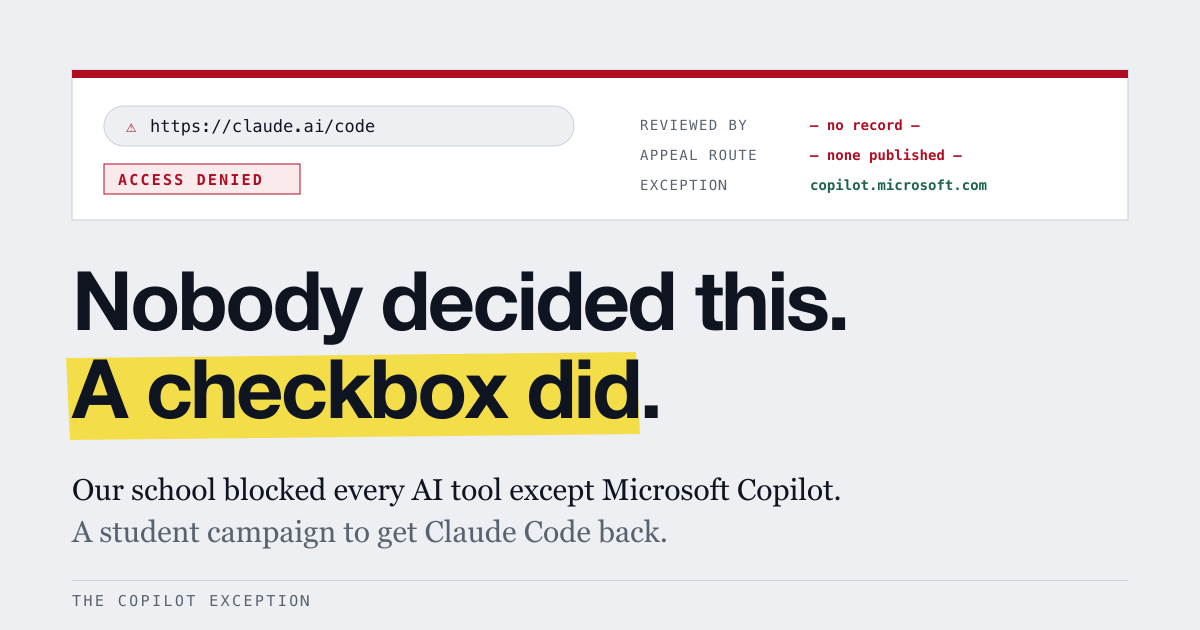
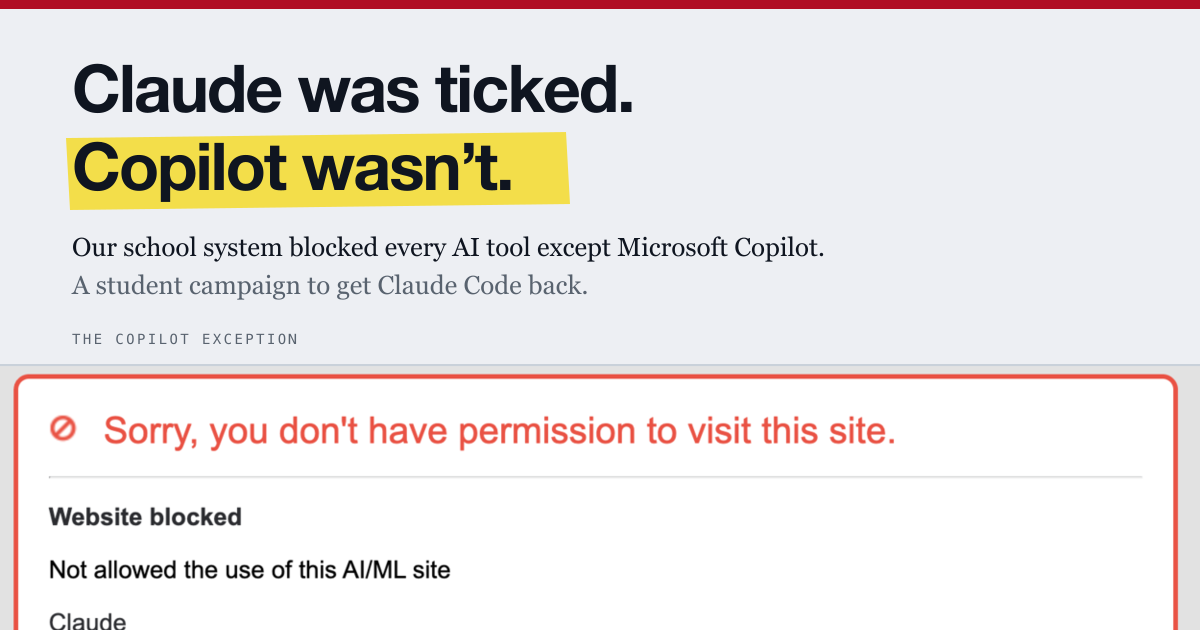
Lead with the real block page, and correct the claims it disproves
The screenshot of the Zscaler block shows this is a per-application AI/ML
rule naming Claude, set at Catholic Schools Broken Bay level — not a bulk
category default at one school. Three corrections follow from that:

- the block page links to an internet use policy, so the site no longer
  claims none is published; demand 3 now asks what it says about AI, who
  owns it, and how to appeal
- section 01 argues from per-application blocking rather than a category tick
- escalation ladder rebuilt for a school system, in Australian terms

Also: hero mock-up replaced by the evidence with a provenance caption,
commentary visually separated so it can't be mistaken for the block page,
OG image rebuilt around the screenshot, originals kept out of the repo.

diff --git a/index.html b/index.html
@@ -4,7 +4,7 @@
 <meta charset="utf-8">
 <meta name="viewport" content="width=device-width, initial-scale=1">
 <title>The Copilot Exception</title>
-<meta name="description" content="Our school blocked every AI tool except Microsoft Copilot. Not after a risk assessment — after someone ticked a filter category. A student campaign to unblock Claude Code and get the decision made properly, in writing, by a person.">
+<meta name="description" content="Catholic Schools Broken Bay blocks Claude and its documentation as an “AI/ML site” while permitting Microsoft Copilot. A student campaign to get the decision reviewed, in writing, by a person.">
 <meta name="author" content="Students of the campaign">
 <meta name="robots" content="index, follow">
 <link rel="canonical" href="https://schappiplays.github.io/protest/">
@@ -12,16 +12,16 @@
 <!-- social preview -->
 <meta property="og:type" content="website">
 <meta property="og:site_name" content="The Copilot Exception">
-<meta property="og:title" content="Copilot isn’t allowed because it’s safe. It’s allowed because it’s Microsoft.">
-<meta property="og:description" content="A student campaign to unblock Claude Code, end the single-vendor AI exception, and make the school publish an actual policy.">
+<meta property="og:title" content="Claude was ticked. Copilot wasn’t.">
+<meta property="og:description" content="Our school system blocked Claude — including its documentation — while permitting Microsoft Copilot. A student campaign to get it back.">
 <meta property="og:url" content="https://schappiplays.github.io/protest/">
 <meta property="og:image" content="https://schappiplays.github.io/protest/assets/og.png">
 <meta property="og:image:width" content="1200">
 <meta property="og:image:height" content="630">
-<meta property="og:image:alt" content="An access-denied block notice, overwritten with the words: nobody decided this, a checkbox did.">
+<meta property="og:image:alt" content="A Zscaler block page reading “Not allowed the use of this AI/ML site — Claude”, headed Catholic Schools Broken Bay.">
 <meta name="twitter:card" content="summary_large_image">
-<meta name="twitter:title" content="Copilot isn’t allowed because it’s safe. It’s allowed because it’s Microsoft.">
-<meta name="twitter:description" content="A student campaign to unblock Claude Code, end the single-vendor AI exception, and make the school publish an actual policy.">
+<meta name="twitter:title" content="Claude was ticked. Copilot wasn’t.">
+<meta name="twitter:description" content="Our school system blocked Claude — including its documentation — while permitting Microsoft Copilot. A student campaign to get it back.">
 <meta name="twitter:image" content="https://schappiplays.github.io/protest/assets/og.png">
 
 <meta name="theme-color" content="#EDEFF3" media="(prefers-color-scheme: light)">
@@ -44,39 +44,44 @@
 
   <!-- ============ HERO ============ -->
   <section style="padding-top:22px">
-    <div class="notice reveal">
-      <div class="notice-hd">
-        <div class="urlbar"><span class="lock" aria-hidden="true">&#9888;</span><span class="u">https://claude.ai/code</span></div>
-        <span class="denied-tag">&#10006;&nbsp; Access Denied</span>
-      </div>
-      <div class="notice-body">
-        <p class="headline">This page has been blocked by your network administrator.</p>
-        <p class="boiler">The site you are trying to reach falls into a category that is not permitted on the
-          <span class="blank" data-school>school name</span> student network. If you believe this is an error, contact
-          your IT department.</p>
-        <dl class="fields">
-          <dt>Category</dt><dd><span class="bad">Artificial Intelligence / Machine Learning &mdash; BLOCKED</span></dd>
-          <dt>Policy</dt><dd>STUDENT-DEFAULT (inherited)</dd>
-          <dt>Reviewed by</dt><dd><span class="bad">&mdash; no record &mdash;</span></dd>
-          <dt>Appeal route</dt><dd><span class="bad">&mdash; none published &mdash;</span></dd>
-          <dt>Exception</dt><dd><span class="ok">copilot.microsoft.com &mdash; ALLOWED</span></dd>
-        </dl>
-      </div>
-    </div>
+    <figure class="evidence reveal">
+      <img src="assets/blocked.png" width="1520" height="720" decoding="async"
+           alt="A Zscaler block page reading: Sorry, you don't have permission to visit this site. Website blocked. Not allowed the use of this AI/ML site. Claude. Headed Catholic Schools Broken Bay.">
+      <figcaption>
+        <span class="ev-lbl">Evidence &middot; 20 August 2026</span>
+        <span>Requesting <code>code.claude.com/docs/en/overview</code> &mdash; the Claude&nbsp;Code
+          <em>documentation</em> &mdash; on the school network. Cropped to remove browser tabs and bookmarks;
+          the support contact is redacted. Nothing else is altered.</span>
+      </figcaption>
+    </figure>
 
     <div style="margin:30px 0 0">
-      <span class="note reveal d1" style="transform:rotate(-1.2deg)">&#8593;&nbsp; nobody decided this. a checkbox did.</span>
+      <span class="note reveal d1" style="transform:rotate(-1.2deg)">&#8593;&nbsp; that&rsquo;s not the tool. that&rsquo;s the instruction manual.</span>
     </div>
 
     <div class="stack" style="gap:22px; margin-top:34px">
       <p class="eyebrow reveal d1">A student campaign &middot; <span class="blank" data-school>school name</span></p>
       <h1 class="reveal d1">Copilot isn&rsquo;t allowed because it&rsquo;s&nbsp;safe.<br>It&rsquo;s allowed because it&rsquo;s&nbsp;<span class="hl">Microsoft.</span></h1>
-      <p class="reveal d2" style="font-size:20px">Our school blocked every AI tool students actually use &mdash; and left exactly
-        one standing. Not after a risk assessment. Not after asking a single teacher. The web filter shipped with a category
-        called &ldquo;Artificial Intelligence,&rdquo; someone ticked it, and Copilot slipped through because it&rsquo;s filed
-        under <em>Microsoft</em> rather than under <em>AI</em>.</p>
+      <p class="reveal d2" style="font-size:20px">Our school system blocked every AI tool students actually use &mdash; and left
+        exactly one standing. Not after a risk assessment. Not after asking a single teacher. Somebody opened a list of AI
+        applications in a filter dashboard and went down it, one at a time. Claude was ticked. Copilot wasn&rsquo;t.</p>
       <p class="reveal d2">We are asking for that decision to be made properly, in writing, by a person. Starting with the tool
         that got taken away from us mid-coursework: <strong>Claude&nbsp;Code</strong>.</p>
+      <div class="card readout reveal d2" style="margin-top:6px">
+        <h3 style="margin-bottom:16px">What that page tells us</h3>
+        <dl class="fields">
+          <dt>Filter</dt><dd>Zscaler &mdash; an enterprise filter whose AI/ML control is a list of <em>named applications</em></dd>
+          <dt>Rule</dt><dd>&ldquo;Not allowed the use of this AI/ML site&rdquo;</dd>
+          <dt>Application</dt><dd>Listed by name: <strong>Claude</strong></dd>
+          <dt>Blocked page</dt><dd>code.claude.com/docs &mdash; the documentation, not the tool</dd>
+          <dt>Set by</dt><dd>Catholic Schools Broken Bay &mdash; a system-level rule, not one school&rsquo;s</dd>
+        </dl>
+        <p style="margin-top:18px; font-size:16.5px">Zscaler&rsquo;s AI/ML control isn&rsquo;t one switch. It&rsquo;s a
+          list of applications, each allowed or blocked on its own. Nobody bulk-enabled a category here. Somebody went down a
+          list, app by app, and made individual calls. <span class="hl">Claude was ticked. Copilot wasn&rsquo;t.</span></p>
+        <p style="margin-top:14px; font-size:16.5px">That is a decision a person made and can explain. We would like them to.</p>
+      </div>
+
       <div class="reveal d2" style="display:flex; gap:12px; flex-wrap:wrap; margin-top:6px">
         <a class="btn" href="#sign">Sign the petition</a>
         <a class="btn ghost" href="#demands">Read the three demands</a>
@@ -91,10 +96,12 @@
       <h2>A filter category is not a policy</h2>
     </div>
     <div class="stack" style="gap:20px">
-      <p>Web filters sold to schools ship with pre-built category lists. One of them is &ldquo;AI &amp; Chatbots.&rdquo;
-        Turning it on takes one click and blocks a few hundred domains at once. Nobody has to read anything, weigh anything,
-        or put their name to anything.</p>
-      <p>That&rsquo;s what happened here, and you can prove it from the results alone. Look at what survived:</p>
+      <p>A lot of school blocks really are one tick: the filter ships with an &ldquo;AI &amp; Chatbots&rdquo; category,
+        somebody switches it on, and a few hundred domains disappear at once. That would have been the charitable explanation
+        here &mdash; a default nobody looked at.</p>
+      <p>The block page rules it out. Zscaler&rsquo;s AI/ML control lists applications individually, and the page names one:
+        <strong>Claude</strong>. So this wasn&rsquo;t a category switch. It was a series of per-application decisions, and the
+        results tell you what those decisions were:</p>
 
       <div class="card scroll-x">
         <table class="verdict">
@@ -111,12 +118,14 @@
         </table>
       </div>
 
-      <p>Copilot runs on <em>the same OpenAI models</em> as the ChatGPT the filter blocks. If generative AI were genuinely
-        judged too risky for students, the tool at the top of that table would be blocked too. It isn&rsquo;t. So the line
-        wasn&rsquo;t drawn at <span class="hl">risk</span>. It was drawn at <span class="hl">vendor</span>.</p>
-      <p>Which means one of two things is true, and the school should tell us which: either there was a real assessment that
-        cleared Copilot on grounds nobody has published &mdash; or there was no assessment at all.</p>
-      <span class="note" style="transform:rotate(.8deg); margin-top:4px">we already know which one it is</span>
+      <p>Copilot runs on <em>the same OpenAI models</em> as the ChatGPT sitting one row below it. If generative AI were
+        genuinely judged too risky for students, the tool at the top of that table would be blocked too. It isn&rsquo;t. So the
+        line wasn&rsquo;t drawn at <span class="hl">risk</span>. It was drawn at <span class="hl">vendor</span>.</p>
+      <p>And because these are per-application settings, somebody chose each one. There is a person who allowed Copilot and
+        blocked Claude on the same screen, on the same afternoon. We are not asking who they are. We are asking what the
+        reason was, because right now the only visible difference between the row that passed and the rows that didn&rsquo;t
+        is which company&rsquo;s name is on it.</p>
+      <span class="note" style="transform:rotate(.8deg); margin-top:4px">same models. different logo. different answer.</span>
     </div>
   </section>
 
@@ -140,10 +149,11 @@
           fail. &ldquo;It came with the Microsoft licence&rdquo; is not a safeguarding argument.</p>
       </li>
       <li>
-        <h3>Publish a written AI policy with a named owner and an appeal route.</h3>
-        <p>One page. What&rsquo;s allowed, what isn&rsquo;t, the reasoning, who signed it, and how a student or teacher requests
-          an exception. Right now the policy is a checkbox in a vendor dashboard that no one will admit to ticking &mdash; and
-          there is no way to challenge it, which is the part that should worry the adults more than it worries us.</p>
+        <h3>Say what the internet use policy actually says about AI &mdash; and add a way to appeal.</h3>
+        <p>The block page links to an internet use policy, so one exists. What isn&rsquo;t in it is anything that explains why
+          Claude is blocked and Copilot isn&rsquo;t, who holds that decision, or how a student or teacher asks for a site to be
+          reconsidered. A policy you can&rsquo;t appeal and can&rsquo;t find the reasoning for is a rule, not a policy. Publish
+          those three things and this campaign is over.</p>
       </li>
     </ol>
   </section>
@@ -163,8 +173,9 @@
       </div>
       <div class="reb-row">
         <div class="reb-say"><span class="reb-lbl">They say</span>&ldquo;It&rsquo;s a safeguarding requirement.&rdquo;</div>
-        <div class="reb-fact"><span class="reb-lbl">The problem with that</span>Then name it. Safeguarding duties are written
-          down and auditable; point to the clause that blocks Anthropic and clears Microsoft. Nobody is asking to remove content
+        <div class="reb-fact"><span class="reb-lbl">The problem with that</span>Then point to the clause. There <em>is</em> an
+          internet use policy &mdash; the block page links to it &mdash; so show us the line in it that blocks Anthropic and
+          clears Microsoft. Nobody is asking to remove content
           filtering or monitoring &mdash; we&rsquo;re asking why one general-purpose assistant is exempt from a rule allegedly
           applied to all of them.</div>
       </div>
@@ -210,7 +221,7 @@
           &mdash; it hands them the excuse to make this about your conduct instead of their policy.</span></li>
       </ul>
       <p style="margin-top:20px; font-size:16.5px"><strong>If the answer is a supervised compromise</strong> &mdash; opt-in access
-        for CS and sixth-form students, a signed agreement, a teacher sponsor, revocable at any time &mdash; we&rsquo;ll take it and
+        for senior Computer Science students, a signed agreement, a teacher sponsor, revocable at any time &mdash; we&rsquo;ll take it and
         say thank you. We are not trying to win an argument. We are trying to get a tool back.</p>
     </div>
 
@@ -279,33 +290,35 @@
 
       <div class="card">
         <h3 style="margin-bottom:14px">Ready to send</h3>
-        <pre class="email" id="emailTpl">Subject: Request to review the block on AI developer tools (Claude Code)
+        <pre class="email" id="emailTpl">Subject: Request to review the AI/ML block on Claude Code
 
-Dear [name / IT &amp; Digital Learning],
+Dear [name / Digital Learning],
 
-I'm a student at [school]. I'm writing to ask for a review of the network
-block currently applied to AI tools, and specifically to Claude Code, which
-I use for programming coursework.
+I'm a student at [school], part of Catholic Schools Broken Bay. I'm writing to
+ask for a review of the Zscaler AI/ML rule that blocks Claude and Claude Code,
+which I use for programming coursework.
 
 Three things prompted this request:
 
 1. Claude Code is a developer tool that runs in the terminal, not a chatbot.
-   It is used to read and modify real codebases and is standard in the
-   software industry our CS students are preparing to enter.
+   It reads and modifies real codebases and is standard in the software
+   industry our Computer Science students are preparing to enter. The block
+   also covers its documentation, so we can't even read how it works.
 
-2. Microsoft Copilot is currently permitted while ChatGPT, Claude and Gemini
-   are blocked. Copilot runs on the same OpenAI models as ChatGPT, so the
-   distinction does not appear to be based on capability or risk. I'd like to
-   understand what it is based on.
+2. Microsoft Copilot is permitted while Claude, ChatGPT and Gemini are not.
+   Copilot runs on the same OpenAI models as ChatGPT. Because Zscaler's AI/ML
+   control lists applications individually, this looks like a per-application
+   decision rather than a category default, so I'd like to understand what it
+   was based on.
 
-3. I can't find a written AI policy for the school, a named owner for the
-   decision, or a documented way to request an exception. If one exists,
-   please point me to it.
+3. The block page links to an internet use policy, but I can't find anything
+   in it that explains the AI/ML rule, names who owns it, or sets out how to
+   request that a site be reconsidered. If that exists, please point me to it.
 
 I'm not asking for content filtering or monitoring to be reduced, and I'm not
 asking for permission to submit AI-assisted work. An opt-in arrangement for
-CS students with a teacher sponsor and a signed agreement would answer this
-completely.
+senior Computer Science students with a teacher sponsor and a signed agreement
+would answer this completely.
 
 A petition from students supporting this request is here: [link]
 
@@ -320,14 +333,18 @@ Many thanks,
       </div>
 
       <div class="card">
-        <h3 style="margin-bottom:14px">And three things that cost you nothing</h3>
+        <h3 style="margin-bottom:14px">And four things that cost you nothing</h3>
         <ul class="plain">
-          <li><span class="x">01</span><span><strong>Get one teacher to co-sign.</strong> A CS or DT teacher asking the same
+          <li><span class="x">01</span><span><strong>Screenshot Copilot working.</strong> We have the block. We do not yet
+            have its opposite. A capture of Copilot answering a prompt on the same network, on the same day, is the other half
+            of this argument &mdash; and it is the half nobody can argue with. Send it in and it goes on this page next to the
+            block.</span></li>
+          <li><span class="x">02</span><span><strong>Get one teacher to co-sign.</strong> A CS or DT teacher asking the same
             question changes it from a student complaint into a staff concern. This is the single highest-value thing on this
             page.</span></li>
-          <li><span class="x">02</span><span><strong>Put it on the student council agenda.</strong> It creates minutes. Minutes
+          <li><span class="x">03</span><span><strong>Put it on the student council agenda.</strong> It creates minutes. Minutes
             create a paper trail that someone eventually has to respond to.</span></li>
-          <li><span class="x">03</span><span><strong>Ask for the decision in writing.</strong> Not a reversal &mdash; just the
+          <li><span class="x">04</span><span><strong>Ask for the decision in writing.</strong> Not a reversal &mdash; just the
             reasoning, the owner, and the date. Requests that are hard to justify in writing tend to get quietly revisited.</span></li>
         </ul>
       </div>
@@ -340,30 +357,38 @@ Many thanks,
       <p class="eyebrow">07 &mdash; Escalation</p>
       <h2>You don&rsquo;t know who blocked it. Find out.</h2>
     </div>
-    <p style="margin-bottom:26px">Almost nobody does, which is the whole problem. Work up this ladder in order and don&rsquo;t skip
-      a rung &mdash; going over someone&rsquo;s head first is the fastest way to make an ally into an obstacle.</p>
+    <p style="margin-bottom:26px">The block page answers half of this already: it is headed <strong>Catholic Schools Broken
+      Bay</strong>, not the name of any one school. That means the rule lives with the system office, and the people at your own
+      school almost certainly cannot lift it even if they agree with you. Start there anyway &mdash; skipping a rung turns a
+      potential ally into an obstacle &mdash; but know where it has to end up.</p>
     <ol class="ladder">
       <li>
-        <h3>IT / network services</h3>
-        <p>Ask one question only: &ldquo;Who owns the decision to block this category, and is there a documented exception
-          process?&rdquo; You&rsquo;re not arguing yet &mdash; you&rsquo;re finding the owner. Often they&rsquo;ll tell you it was
-          inherited from a filter default or a trust-wide setting, which is itself the answer you need.</p>
+        <h3>Your school&rsquo;s IT support</h3>
+        <p>One question, and it isn&rsquo;t &ldquo;please unblock it&rdquo;: <em>&ldquo;Is this rule set here or at the system
+          office, and who owns it?&rdquo;</em> You are not arguing yet, you are confirming the block is out of their hands and
+          getting the name of whose hands it is in. Expect them to say Zscaler is managed centrally. That answer is what you need.</p>
       </li>
       <li>
-        <h3>Head of Computer Science</h3>
-        <p>The person whose subject this damages most, and the one whose support carries the most weight in the next
-          conversation. Bring the coursework angle, not the freedom angle.</p>
+        <h3>Your Computer Science teacher, then the Leader of Learning</h3>
+        <p>The subject this damages most, and the staff member whose support carries weight at the next rung. Bring the
+          coursework argument, not the freedom argument &mdash; a teacher can escalate a curriculum problem through channels a
+          student can&rsquo;t.</p>
       </li>
       <li>
-        <h3>Senior leadership &mdash; the deputy head for curriculum or digital</h3>
-        <p>This is where the decision can actually be reversed. Lead with the three demands and the compromise offer. Bring the
-          signature count and the teacher co-signature.</p>
+        <h3>Your Principal</h3>
+        <p>A principal can raise a system-level setting with the system office on the school&rsquo;s behalf, which is exactly what
+          you need to happen. Lead with the three demands and the opt-in compromise. Bring the signature count and the teacher.</p>
       </li>
       <li>
-        <h3>Governors or trust board</h3>
-        <p>Slow, formal, and hard to ignore. Only worth it if leadership won&rsquo;t engage. Most boards accept written questions
-          from students, and &ldquo;is there a written AI policy?&rdquo; is a question a board is obliged to care about the answer
-          to.</p>
+        <h3>Catholic Schools Broken Bay &mdash; digital learning / IT services</h3>
+        <p>Where the Zscaler policy actually lives, and the only place the block can be changed. By now you should arrive with a
+          principal&rsquo;s backing rather than alone. Ask for the reasoning, the owner, and the appeal route in writing.</p>
+      </li>
+      <li>
+        <h3>The Director of Schools, or the Catholic Schools Broken Bay board</h3>
+        <p>Slow, formal, hard to ignore, and only worth it if the system office won&rsquo;t engage at all. &ldquo;Does our AI
+          policy explain why one vendor is permitted and the others are not?&rdquo; is a question a board is obliged to have an
+          answer to.</p>
       </li>
     </ol>
   </section>

diff --git a/assets/style.css b/assets/style.css
@@ -118,6 +118,29 @@ a:focus-visible,button:focus-visible,input:focus-visible{outline:3px solid var(-
 .fields dd .bad{color:var(--denied); font-weight:600}
 .fields dd .ok{color:var(--allow); font-weight:600}
 
+/* ---------- evidence figure ---------- */
+.evidence{
+  margin:0; background:var(--paper); border:1px solid var(--rule);
+  border-top:7px solid var(--denied); box-shadow:var(--shadow); border-radius:2px;
+}
+.evidence img{display:block; width:100%; height:auto; border-bottom:1px solid var(--rule-soft)}
+.evidence figcaption{
+  display:flex; flex-direction:column; gap:8px; padding:16px 20px;
+  font-family:"IBM Plex Mono",monospace; font-size:11.5px; line-height:1.6; color:var(--muted);
+}
+.evidence figcaption code{font-size:11.5px; color:var(--ink); word-break:break-all}
+.ev-lbl{
+  font-size:10px; font-weight:600; letter-spacing:.14em; text-transform:uppercase; color:var(--denied);
+}
+/* the screenshot is a light-mode capture; keep it from glaring on a dark ground */
+:root[data-theme="dark"] .evidence img{filter:brightness(.88) contrast(1.03)}
+@media (prefers-color-scheme: dark){
+  :root:not([data-theme="light"]) .evidence img{filter:brightness(.88) contrast(1.03)}
+}
+
+.readout .fields{border-top:0; padding-top:0}
+.readout .fields dd{color:var(--ink)}
+
 /* ---------- sections ---------- */
 section{padding:64px 0 0}
 .sec-hd{display:flex; flex-direction:column; gap:12px; margin-bottom:26px}

diff --git a/assets/app.js b/assets/app.js
@@ -6,7 +6,7 @@
 const CONFIG = {
   // 1. Your school's name. Fills every "SCHOOL NAME" blank on the page.
   //    Leave "" to keep the blanks showing while you're still drafting.
-  school: "",
+  school: "Catholic Schools Broken Bay",
 
   // 2. Signature collection. Both options are free, in-page (nobody leaves
   //    the site), and owned by neither Microsoft nor Google.
